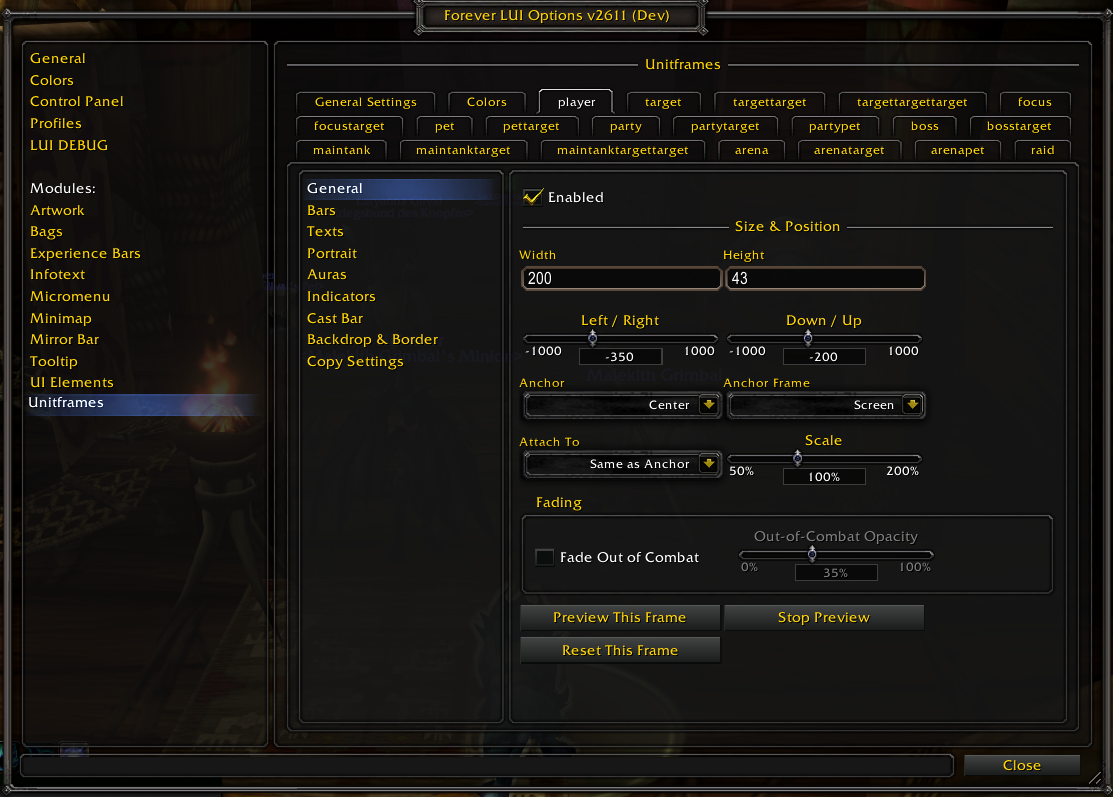
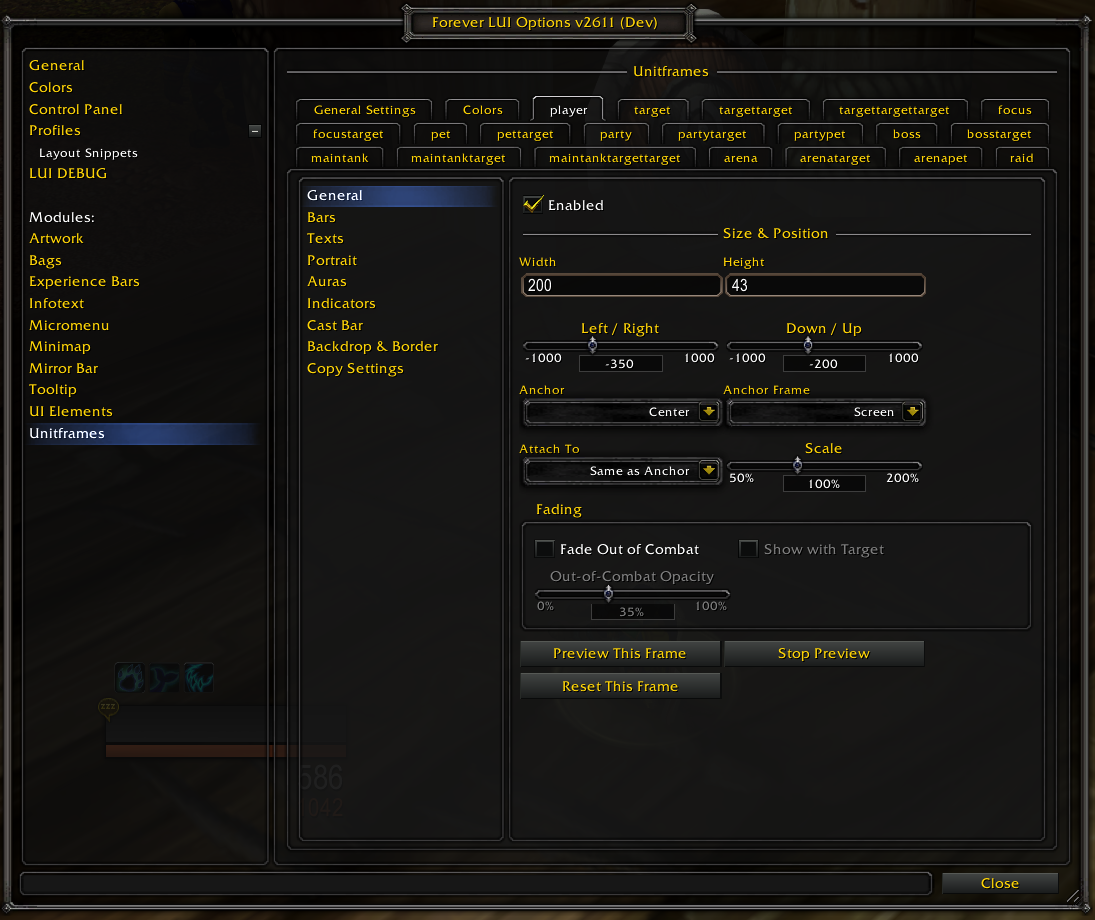
Docs: show current anchor and fading controls

diff --git a/docs/index.html b/docs/index.html
@@ -291,9 +291,10 @@
 <p>Choose Screen for an independent screen position. With another anchor, the unitframe follows that frame when it moves. Some child frames use their parent instead, so the available controls vary by unit.</p>
 <p>The available anchors also include <strong>CDM: Essential Cooldowns</strong>, <strong>CDM: Utility Cooldowns</strong>, <strong>CDM: Tracked Buffs</strong> and <strong>CDM: Tracked Bars</strong> when those frames are loaded. Enable Blizzard's Cooldown Manager and position its viewers in Edit Mode first. Select a CDM anchor to make the LUI unitframe follow it.</p><h3 id="unitframe-fading">Fading outside combat</h3>
 <p>On the same General page, enable <strong>Fading → Fade Out of Combat</strong> and set <strong>Out-of-Combat Opacity</strong>. Fading is off by default. Mouseover or entering combat restores normal opacity; existing range fading still applies.</p>
+<p>Enable <strong>Fade Out of Combat</strong> first to make the other fading controls available.</p>
 <p>Optionally enable <strong>Show with Target</strong> to keep this unitframe at normal opacity while any target is selected, including outside combat. Clearing the target restores the reduced opacity unless you are in combat or hovering over the frame. This switch is off by default and is set separately for each unitframe.</p>
 <figure>
-<figcaption>Unitframes → player → General: anchors and Fading</figcaption><a aria-label="Open screenshot: Unitframes → player → General: anchors and Fading" href="assets/unitframes-player-general.webp" rel="noopener" target="_blank"><img alt="Player General settings showing Anchor Frame, Attach To and optional out-of-combat fading" decoding="async" height="797" loading="lazy" src="assets/unitframes-player-general.webp" style="max-width:1113px" width="1113"/></a>
+<figcaption>Unitframes → player → General: anchors and Fading</figcaption><a aria-label="Open screenshot: Unitframes → player → General: anchors and Fading" href="assets/unitframes-player-general.webp" rel="noopener" target="_blank"><img alt="Player General settings with Anchor Frame, Attach To, Fade Out of Combat, Show with Target and Out-of-Combat Opacity; fading is disabled in this example" decoding="async" height="920" loading="lazy" src="assets/unitframes-player-general.webp" style="max-width:1095px" width="1095"/></a>
 </figure>
 <h3 id="raid-frames">Raid frames and 25 / 40-player preview</h3>
 <p>LUI raid frames support up to forty players, including occupied subgroups 7 and 8. The live layout switches automatically with raid size: compact up to twenty-five members, wider for twenty-six to forty.</p>
